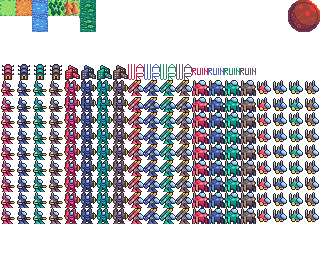
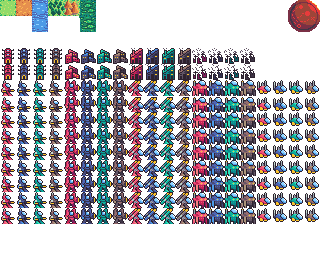
Added War and Ruin Building Art. Simple 2 Frame Animation for all Buildings.

Changed region(s): [[0.0, 0.1875, 0.8125, 0.3125]]

diff --git a/js/game/unit.js b/js/game/unit.js
@@ -10,10 +10,10 @@ const SUPPORT_MECH = 3;
 const TELEPORT_MECH = 4;
 
 //buildings acts as units
-const HQ_BUILDING = 80;
-const CITY_BUILDING = 84;
-const WAR_BUILDING = 88;
-const RUIN_BUILDING = 92;
+const HQ_BUILDING = 60;
+const CITY_BUILDING = 64;
+const WAR_BUILDING = 68;
+const RUIN_BUILDING = 72;
 
 class Unit {
     constructor(type, pos) {
@@ -59,6 +59,11 @@ class Unit {
                 this.isBuilding = true;
                 this.movement = 0;
                 break;
+
+            case RUIN_BUILDING:
+                this.isBuilding = true;
+                this.movement = 0;
+                break;
         }
     }
 
@@ -66,14 +71,17 @@ class Unit {
         if (typeof scale == "undefined") scale = vec2(1, 1);
 
         if (!this.isBuilding) {
-            //2 Frame Mech Unit Idle Animation
             if (gameTime % 1200 < 600)
                 drawSheet(120 + (4 * this.type) + teamID, offset.add(this.position), scale);
             else
                 drawSheet(100 + (4 * this.type) + teamID, offset.add(this.position), scale);
         }
-        else if (this.isBuilding)
-            drawSheet(this.type + teamID, offset.add(this.position), scale);
+        else if (this.isBuilding) {
+            if (gameTime % 1200 < 600)
+                drawSheet(this.type + teamID, offset.add(this.position), scale);
+            else
+                drawSheet(20 + this.type + teamID, offset.add(this.position), scale);
+        }
     }
 }
 

diff --git a/js/ui/gameplay/gameplay.js b/js/ui/gameplay/gameplay.js
@@ -31,6 +31,8 @@ function gameplaySetup() {
         new Player(RED_TEAM, [
             new MapUnit(HQ_BUILDING, vec2(2, 2)),
             new MapUnit(CITY_BUILDING, vec2(3, 3)),
+            new MapUnit(WAR_BUILDING, vec2(4, 3)),
+            new MapUnit(RUIN_BUILDING, vec2(6, 6)),
             new MapUnit(RIFLE_MECH, vec2(4, 4)),
             new MapUnit(TELEPORT_MECH, vec2(7, 5)),
             new MapUnit(CANNON_MECH, vec2(9, 5))
